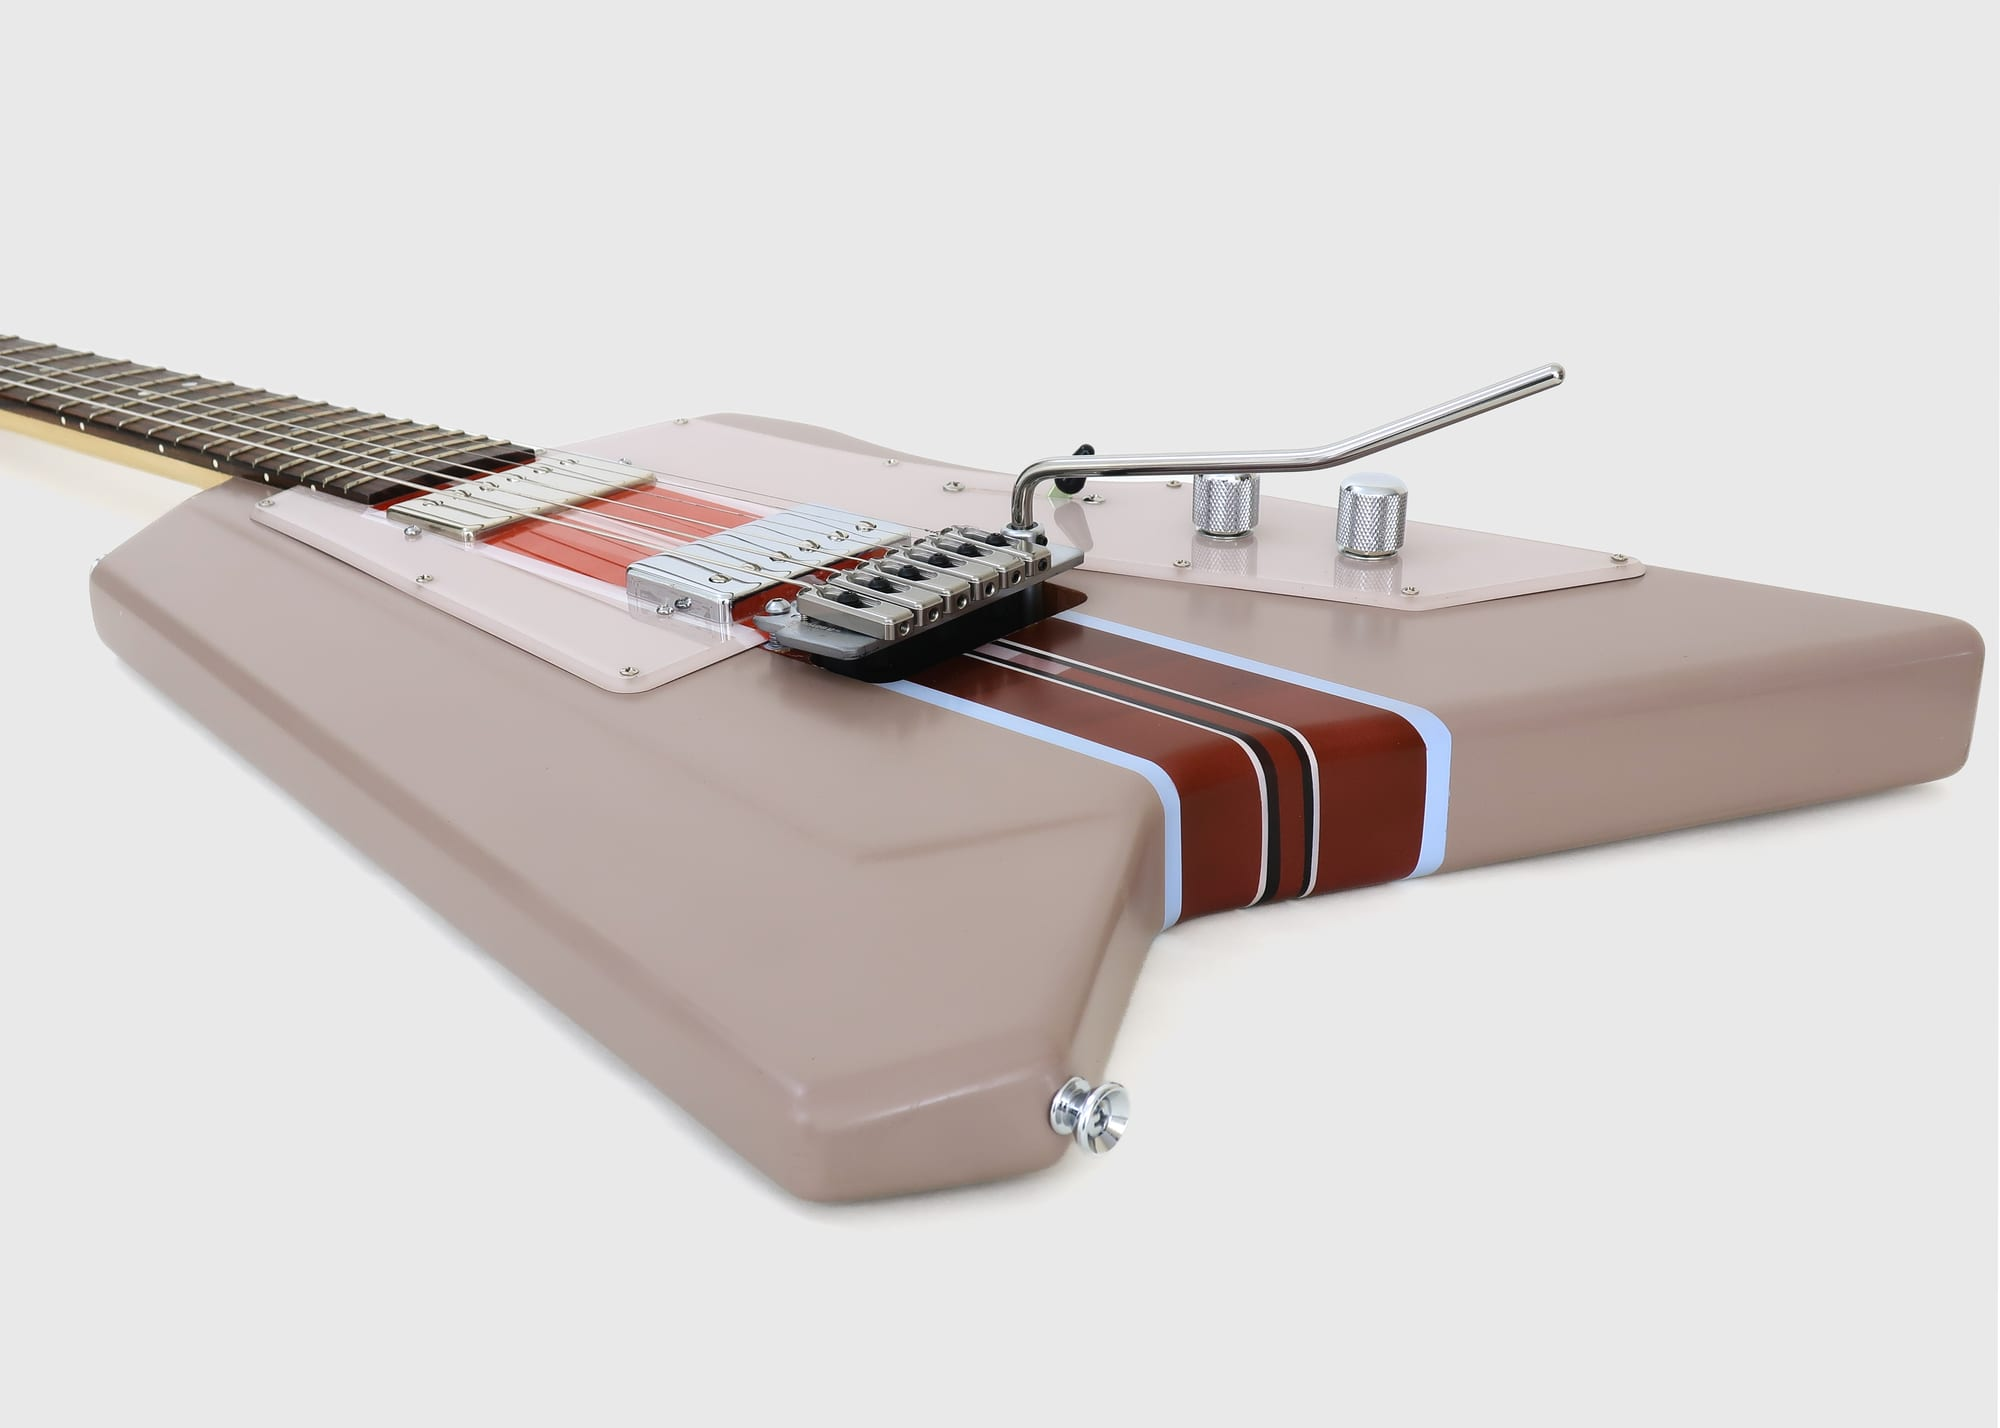
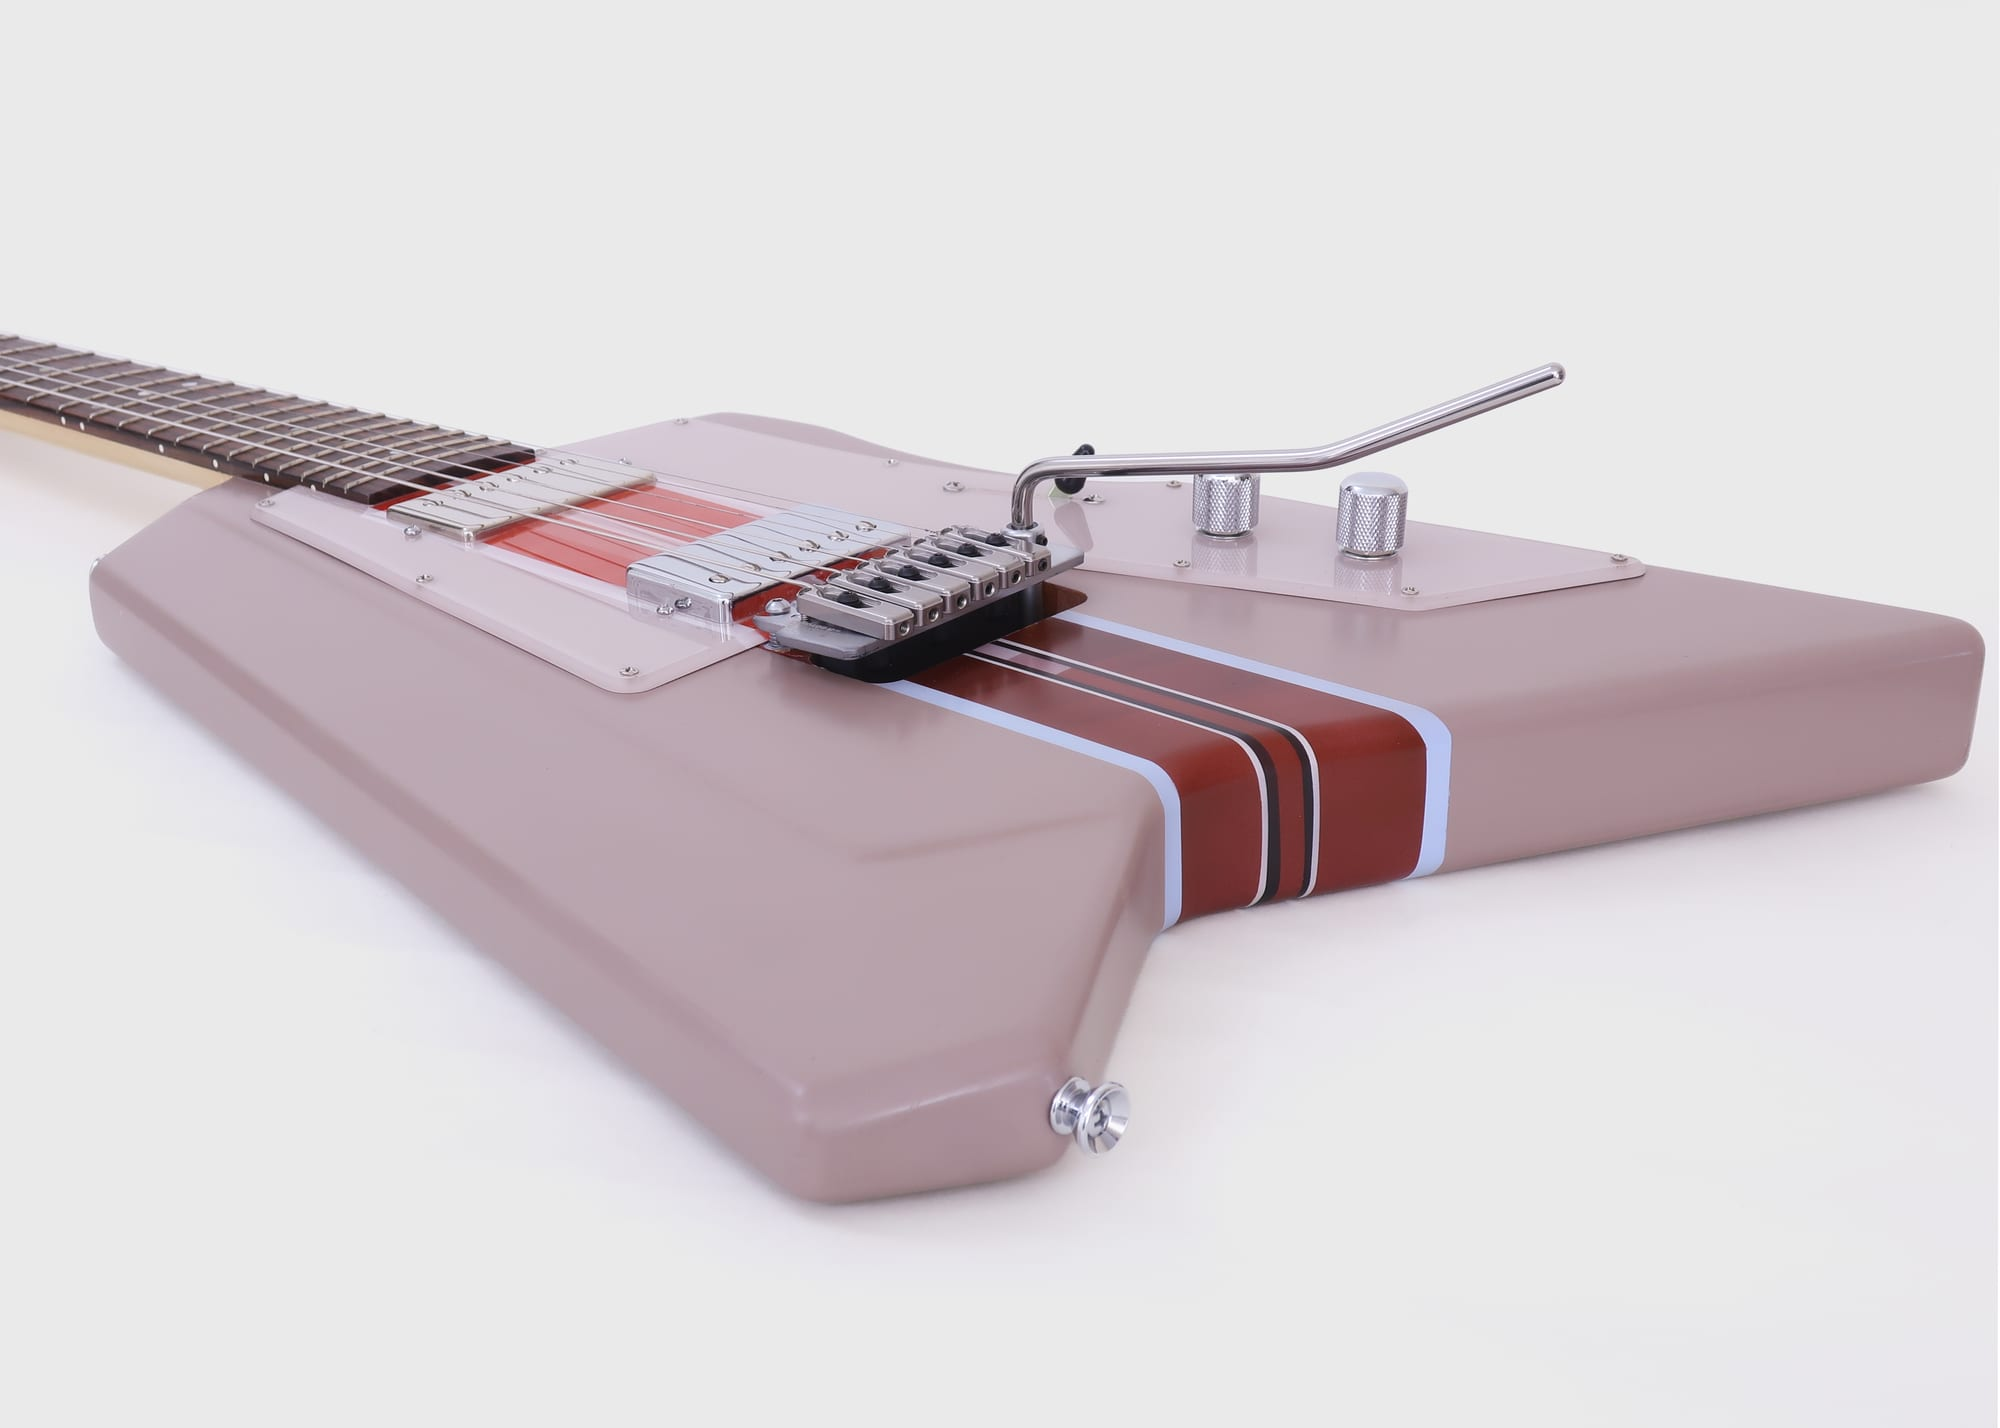
Reorder gallery by height, add lightbox zoom, update M-101 photos, fix photo report size

Changed region(s): [[0.372, 0.3389, 0.713, 0.6162], [0.0, 0.2465, 0.31, 0.4006], [0.527, 0.3081, 0.589, 0.3389]]

diff --git a/src/lib/photos.ts b/src/lib/photos.ts
@@ -1,12 +1,13 @@
 import type { ImageMetadata } from 'astro';
 
+// Gallery order: tallest frames first.
 export const angles = [
   { key: 'front', suffix: '_Front_Full_Body.jpg', aspect: '5 / 7', alt: 'front', label: 'Front, full body' },
   { key: 'back', suffix: '_Back_Full_Body.jpg', aspect: '5 / 7', alt: 'back', label: 'Back, full body' },
+  { key: 'headstock', suffix: '_Headstocks.jpg', aspect: '5 / 7', alt: 'headstock', label: 'Headstock' },
   { key: 'frontCrop', suffix: '_Front_Body_Crop.jpg', aspect: '4 / 5', alt: 'front body detail', label: 'Front, body close-up' },
   { key: 'backCrop', suffix: '_Back_Body_Crop.jpg', aspect: '4 / 5', alt: 'back body detail', label: 'Back, body close-up' },
   { key: 'side', suffix: '_Side_Body.jpg', aspect: '7 / 5', alt: 'side', label: 'Side of body' },
-  { key: 'headstock', suffix: '_Headstocks.jpg', aspect: '5 / 7', alt: 'headstock', label: 'Headstock' },
 ] as const;
 
 export type AngleKey = (typeof angles)[number]['key'];
